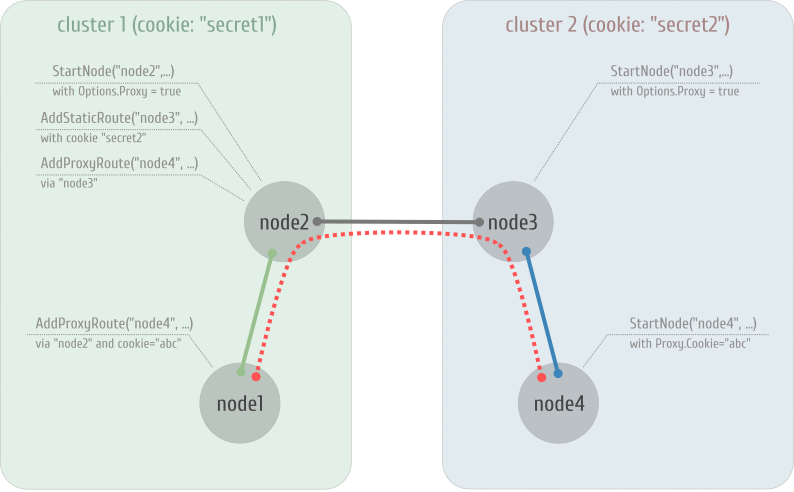
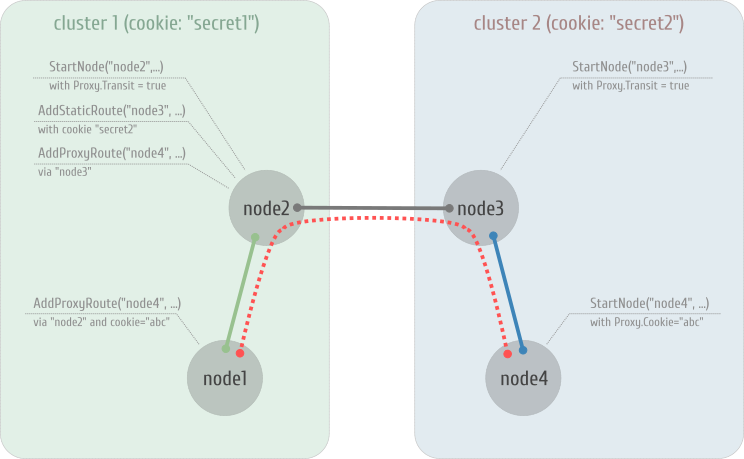
sync

diff --git a/tests/node_test.go b/tests/node_test.go
@@ -426,7 +426,7 @@ func TestNodeRemoteSpawn(t *testing.T) {
 
 	node1, _ := ergo.StartNode("node1remoteSpawn@localhost", "secret", node1opts)
 	node2opts := node.Options{}
-	node2opts.Proxy.Enable = true
+	node2opts.Proxy.Transit = true
 	node2, _ := ergo.StartNode("node2remoteSpawn@localhost", "secret", node2opts)
 	node3, _ := ergo.StartNode("node3remoteSpawn@localhost", "secret", node.Options{})
 	route := node.ProxyRoute{
@@ -691,7 +691,7 @@ func TestNodeProxyConnect(t *testing.T) {
 	nodeA.AddProxyRoute("nodeCproxy@localhost", route)
 
 	optsB := node.Options{}
-	optsB.Proxy.Enable = true
+	optsB.Proxy.Transit = true
 	nodeB, e := ergo.StartNode("nodeBproxy@localhost", "secret", optsB)
 	if e != nil {
 		t.Fatal(e)
@@ -737,7 +737,7 @@ func TestNodeProxyConnect(t *testing.T) {
 	}
 	fmt.Println("OK")
 	nodeB.Stop()
-	optsB.Proxy.Enable = false
+	optsB.Proxy.Transit = false
 	nodeB, e = ergo.StartNode("nodeBproxy@localhost", "secret", optsB)
 	if e != nil {
 		t.Fatal(e)
@@ -756,7 +756,7 @@ func TestNodeProxyConnect(t *testing.T) {
 	nodeC.Stop()
 
 	nodeB.Stop()
-	optsB.Proxy.Enable = true
+	optsB.Proxy.Transit = true
 	nodeB, e = ergo.StartNode("nodeBproxy@localhost", "secret", optsB)
 	if e != nil {
 		t.Fatal(e)
@@ -1292,7 +1292,7 @@ func BenchmarkNodeProxy_NodeA_to_NodeC_via_NodeB_Message_1K(b *testing.B) {
 	node3name := fmt.Sprintf("nodeB3ProxyEnabled1K%d@localhost", b.N)
 	node1, _ := ergo.StartNode(node1name, "bench", node.Options{})
 	opts2 := node.Options{}
-	opts2.Proxy.Enable = true
+	opts2.Proxy.Transit = true
 	node2, _ := ergo.StartNode(node2name, "bench", opts2)
 	node3, _ := ergo.StartNode(node3name, "bench", node.Options{})
 	defer node1.Stop()
@@ -1357,7 +1357,7 @@ func BenchmarkNodeProxy_NodeA_to_NodeC_via_NodeB_Message_1K_Encrypted(b *testing
 	opts1.Proxy.Flags.EnableEncryption = true
 	node1, _ := ergo.StartNode(node1name, "bench", opts1)
 	opts2 := node.Options{}
-	opts2.Proxy.Enable = true
+	opts2.Proxy.Transit = true
 	node2, _ := ergo.StartNode(node2name, "bench", opts2)
 	node3, _ := ergo.StartNode(node3name, "bench", node.Options{})
 	defer node1.Stop()
@@ -1422,7 +1422,7 @@ func BenchmarkNodeProxy_NodeA_to_NodeC_via_NodeB_Message_1M_Compressed(b *testin
 	opts1.Proxy.Flags.EnableEncryption = false
 	node1, _ := ergo.StartNode(node1name, "bench", opts1)
 	opts2 := node.Options{}
-	opts2.Proxy.Enable = true
+	opts2.Proxy.Transit = true
 	node2, _ := ergo.StartNode(node2name, "bench", opts2)
 	node3, _ := ergo.StartNode(node3name, "bench", node.Options{})
 	defer node1.Stop()
@@ -1487,7 +1487,7 @@ func BenchmarkNodeProxy_NodeA_to_NodeC_via_NodeB_Message_1M_CompressedEncrypted(
 	opts1.Proxy.Flags.EnableEncryption = true
 	node1, _ := ergo.StartNode(node1name, "bench", opts1)
 	opts2 := node.Options{}
-	opts2.Proxy.Enable = true
+	opts2.Proxy.Transit = true
 	node2, _ := ergo.StartNode(node2name, "bench", opts2)
 	node3, _ := ergo.StartNode(node3name, "bench", node.Options{})
 	defer node1.Stop()

diff --git a/tests/monitor_test.go b/tests/monitor_test.go
@@ -426,7 +426,7 @@ func TestMonitorLocalProxyRemoteByPid(t *testing.T) {
 		t.Fatal("can't start node:", err)
 	}
 	opts2 := node.Options{}
-	opts2.Proxy.Enable = true
+	opts2.Proxy.Transit = true
 	node2, err := ergo.StartNode("nodeM2ProxyRemoteByPid@localhost", "cookies", opts2)
 	if err != nil {
 		t.Fatal("can't start node:", err, node2.Name())
@@ -584,7 +584,7 @@ func TestMonitorLocalProxyRemoteByName(t *testing.T) {
 		t.Fatal("can't start node:", err)
 	}
 	opts2 := node.Options{}
-	opts2.Proxy.Enable = true
+	opts2.Proxy.Transit = true
 	node2, err := ergo.StartNode("nodeM2RemoteByName@localhost", "cookies", opts2)
 	if err != nil {
 		t.Fatal("can't start node:", err)
@@ -1079,7 +1079,7 @@ func TestLinkRemoteProxy(t *testing.T) {
 		t.Fatal(err)
 	}
 	node2opts := node.Options{}
-	node2opts.Proxy.Enable = true
+	node2opts.Proxy.Transit = true
 	node2, err := ergo.StartNode("nodeL2RemoteViaProxy@localhost", "cookies", node2opts)
 	if err != nil {
 		t.Fatal(err)
@@ -1334,13 +1334,13 @@ func TestMonitorNode(t *testing.T) {
 		t.Fatal(e)
 	}
 	optsB := node.Options{}
-	optsB.Proxy.Enable = true
+	optsB.Proxy.Transit = true
 	nodeB, e := ergo.StartNode("monitornodeBproxy@localhost", "secret", optsB)
 	if e != nil {
 		t.Fatal(e)
 	}
 	optsC := node.Options{}
-	optsC.Proxy.Enable = true
+	optsC.Proxy.Transit = true
 	nodeC, e := ergo.StartNode("monitornodeCproxy@localhost", "secret", optsC)
 	if e != nil {
 		t.Fatal(e)

diff --git a/node/network.go b/node/network.go
@@ -428,9 +428,9 @@ func (n *network) RouteProxyConnectRequest(from ConnectionInterface, request Pro
 
 			lib.Log("[%s] NETWORK transit proxy connection to %q via %q", n.nodename, request.To, route.Proxy)
 			// proxy feature must be enabled explicitly for the transitional requests
-			if n.proxy.Enable == false {
+			if n.proxy.Transit == false {
 				lib.Log("[%s] NETWORK proxy. Proxy feature is disabled on this node")
-				return ErrProxyDisabled
+				return ErrProxyTransitDisabled
 			}
 			if request.Hop < 1 {
 				lib.Log("[%s] NETWORK proxy. Error: exceeded hop limit")
@@ -627,8 +627,8 @@ func (n *network) RouteProxyConnectReply(from ConnectionInterface, reply ProxyCo
 
 	if reply.To != n.nodename {
 		// send this reply further and register this session
-		if n.proxy.Enable == false {
-			return ErrProxyDisabled
+		if n.proxy.Transit == false {
+			return ErrProxyTransitDisabled
 		}
 
 		if len(reply.Path) == 0 {

diff --git a/node/types.go b/node/types.go
@@ -39,7 +39,7 @@ var (
 	ErrPeerUnsupported = fmt.Errorf("peer does not support this feature")
 
 	ErrProxyUnknownRequest   = fmt.Errorf("unknown proxy request")
-	ErrProxyDisabled         = fmt.Errorf("proxy feature disabled")
+	ErrProxyTransitDisabled  = fmt.Errorf("proxy feature disabled")
 	ErrProxyNoRoute          = fmt.Errorf("no proxy route to node")
 	ErrProxyConnect          = fmt.Errorf("can't establish proxy connection")
 	ErrProxyHopExceeded      = fmt.Errorf("proxy hop is exceeded")
@@ -277,10 +277,10 @@ type Cloud struct {
 }
 
 type Proxy struct {
-	Enable bool
-	Flags  ProxyFlags
-	Cookie string // set cookie for incoming connection
-	Routes map[string]ProxyRoute
+	Transit bool
+	Flags   ProxyFlags
+	Cookie  string // set cookie for incoming connection
+	Routes  map[string]ProxyRoute
 }
 
 type Compression struct {

diff --git a/examples/proxy/main.go b/examples/proxy/main.go
@@ -18,18 +18,18 @@ func main() {
 	}
 	fmt.Println("OK")
 
-	fmt.Printf("Starting node: node2 (cluster 1) with Proxy.Enabled = true ...")
+	fmt.Printf("Starting node: node2 (cluster 1) with Proxy.Transit = true ...")
 	opts2 := node.Options{}
-	opts2.Proxy.Enable = true
+	opts2.Proxy.Transit = true
 	node2, err := ergo.StartNode("node2@localhost", "secret1", opts2)
 	if err != nil {
 		panic(err)
 	}
 	fmt.Println("OK")
 
-	fmt.Printf("Starting node: node3 (cluster 2) with Proxy.Enabled = true ...")
+	fmt.Printf("Starting node: node3 (cluster 2) with Proxy.Transit = true ...")
 	opts3 := node.Options{}
-	opts3.Proxy.Enable = true
+	opts3.Proxy.Transit = true
 	node3, err := ergo.StartNode("node3@localhost", "secret2", opts3)
 	if err != nil {
 		panic(err)
